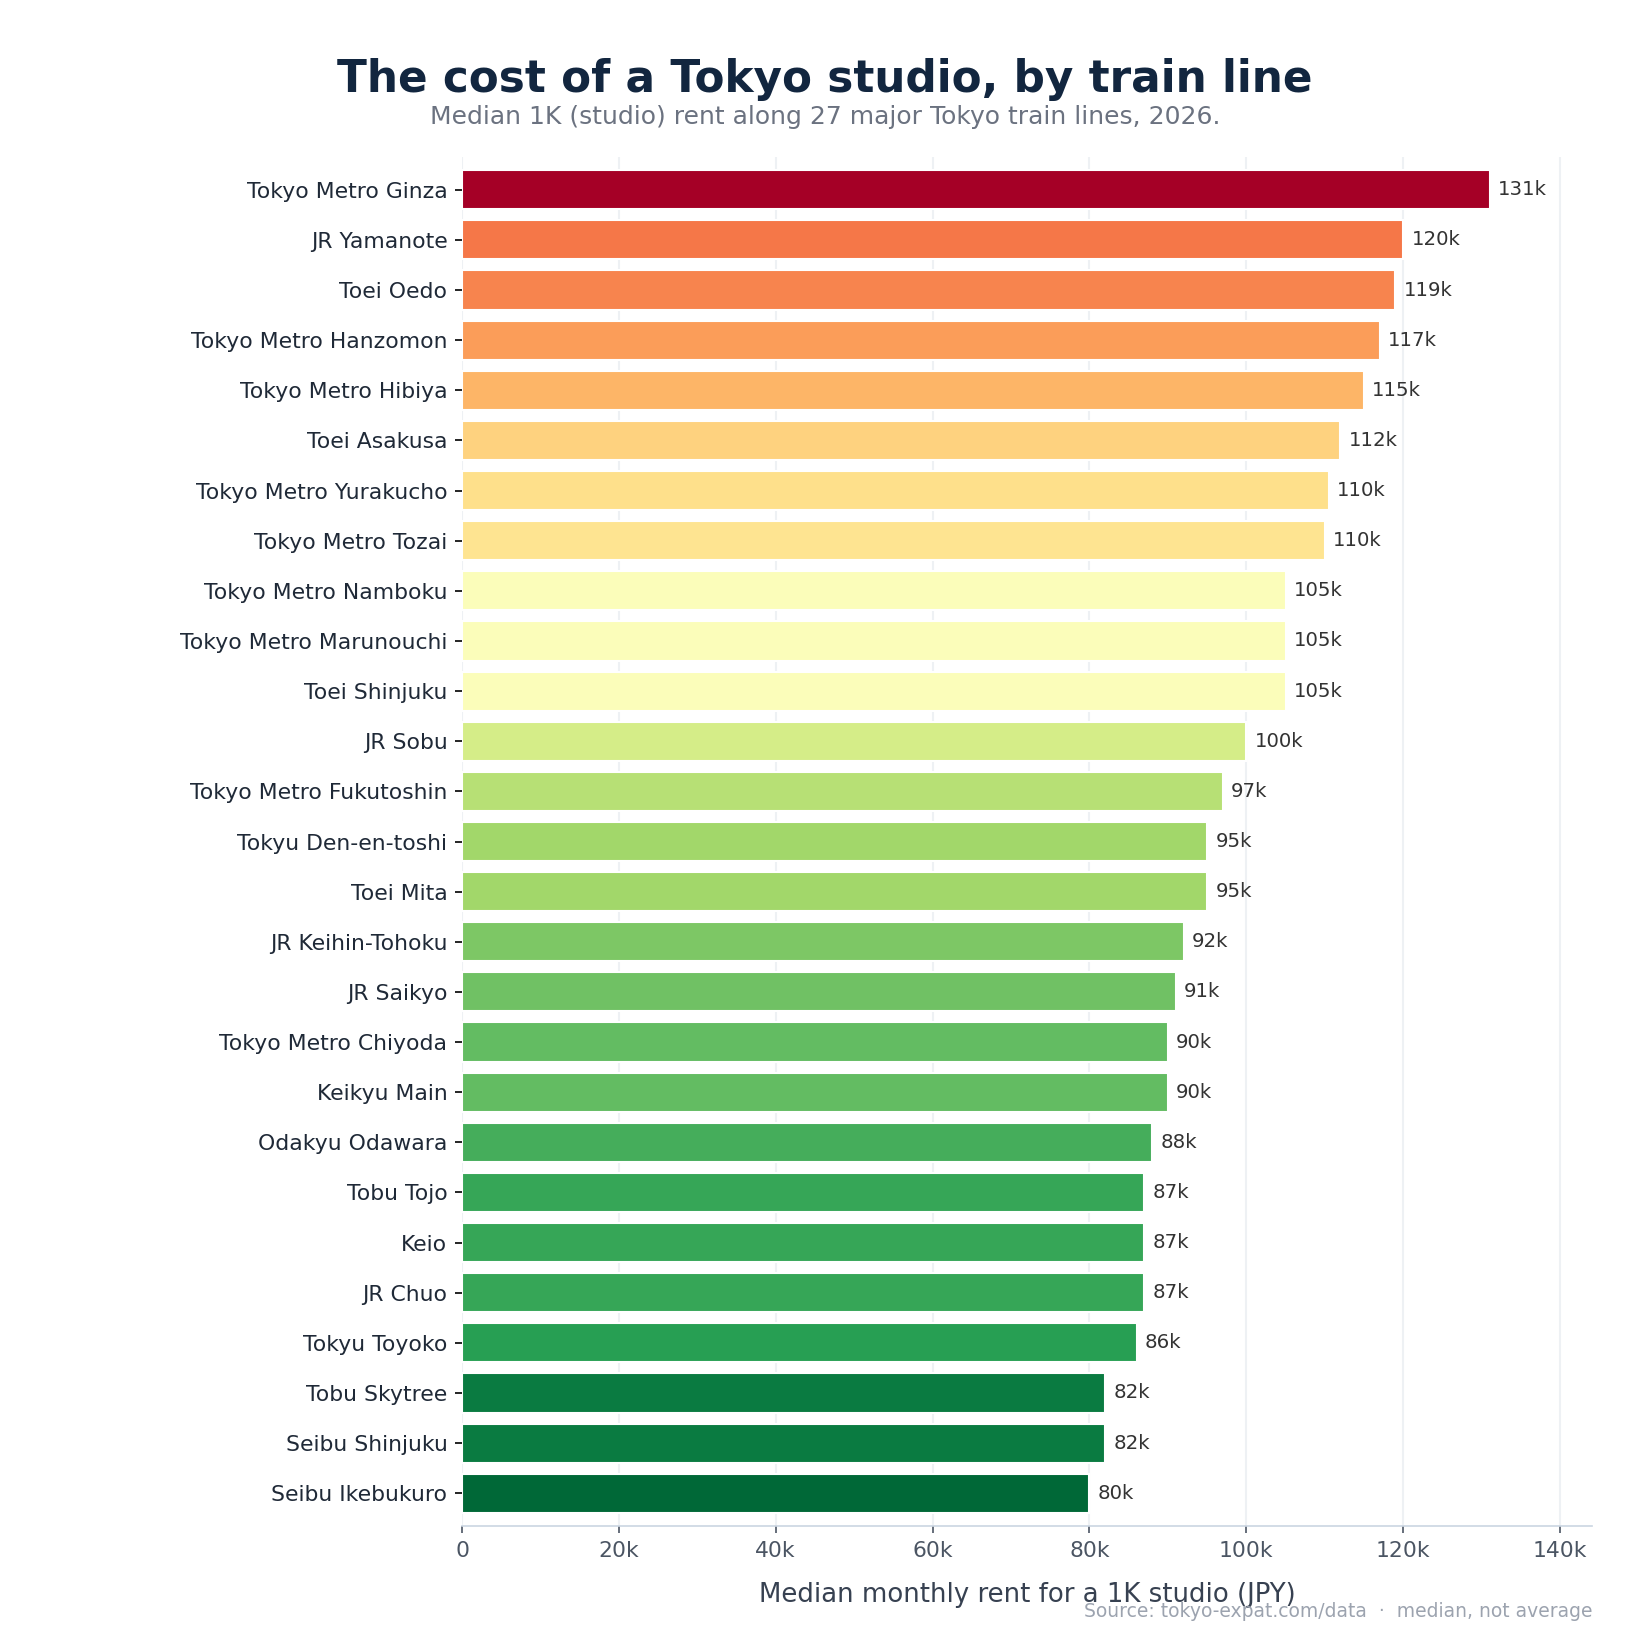
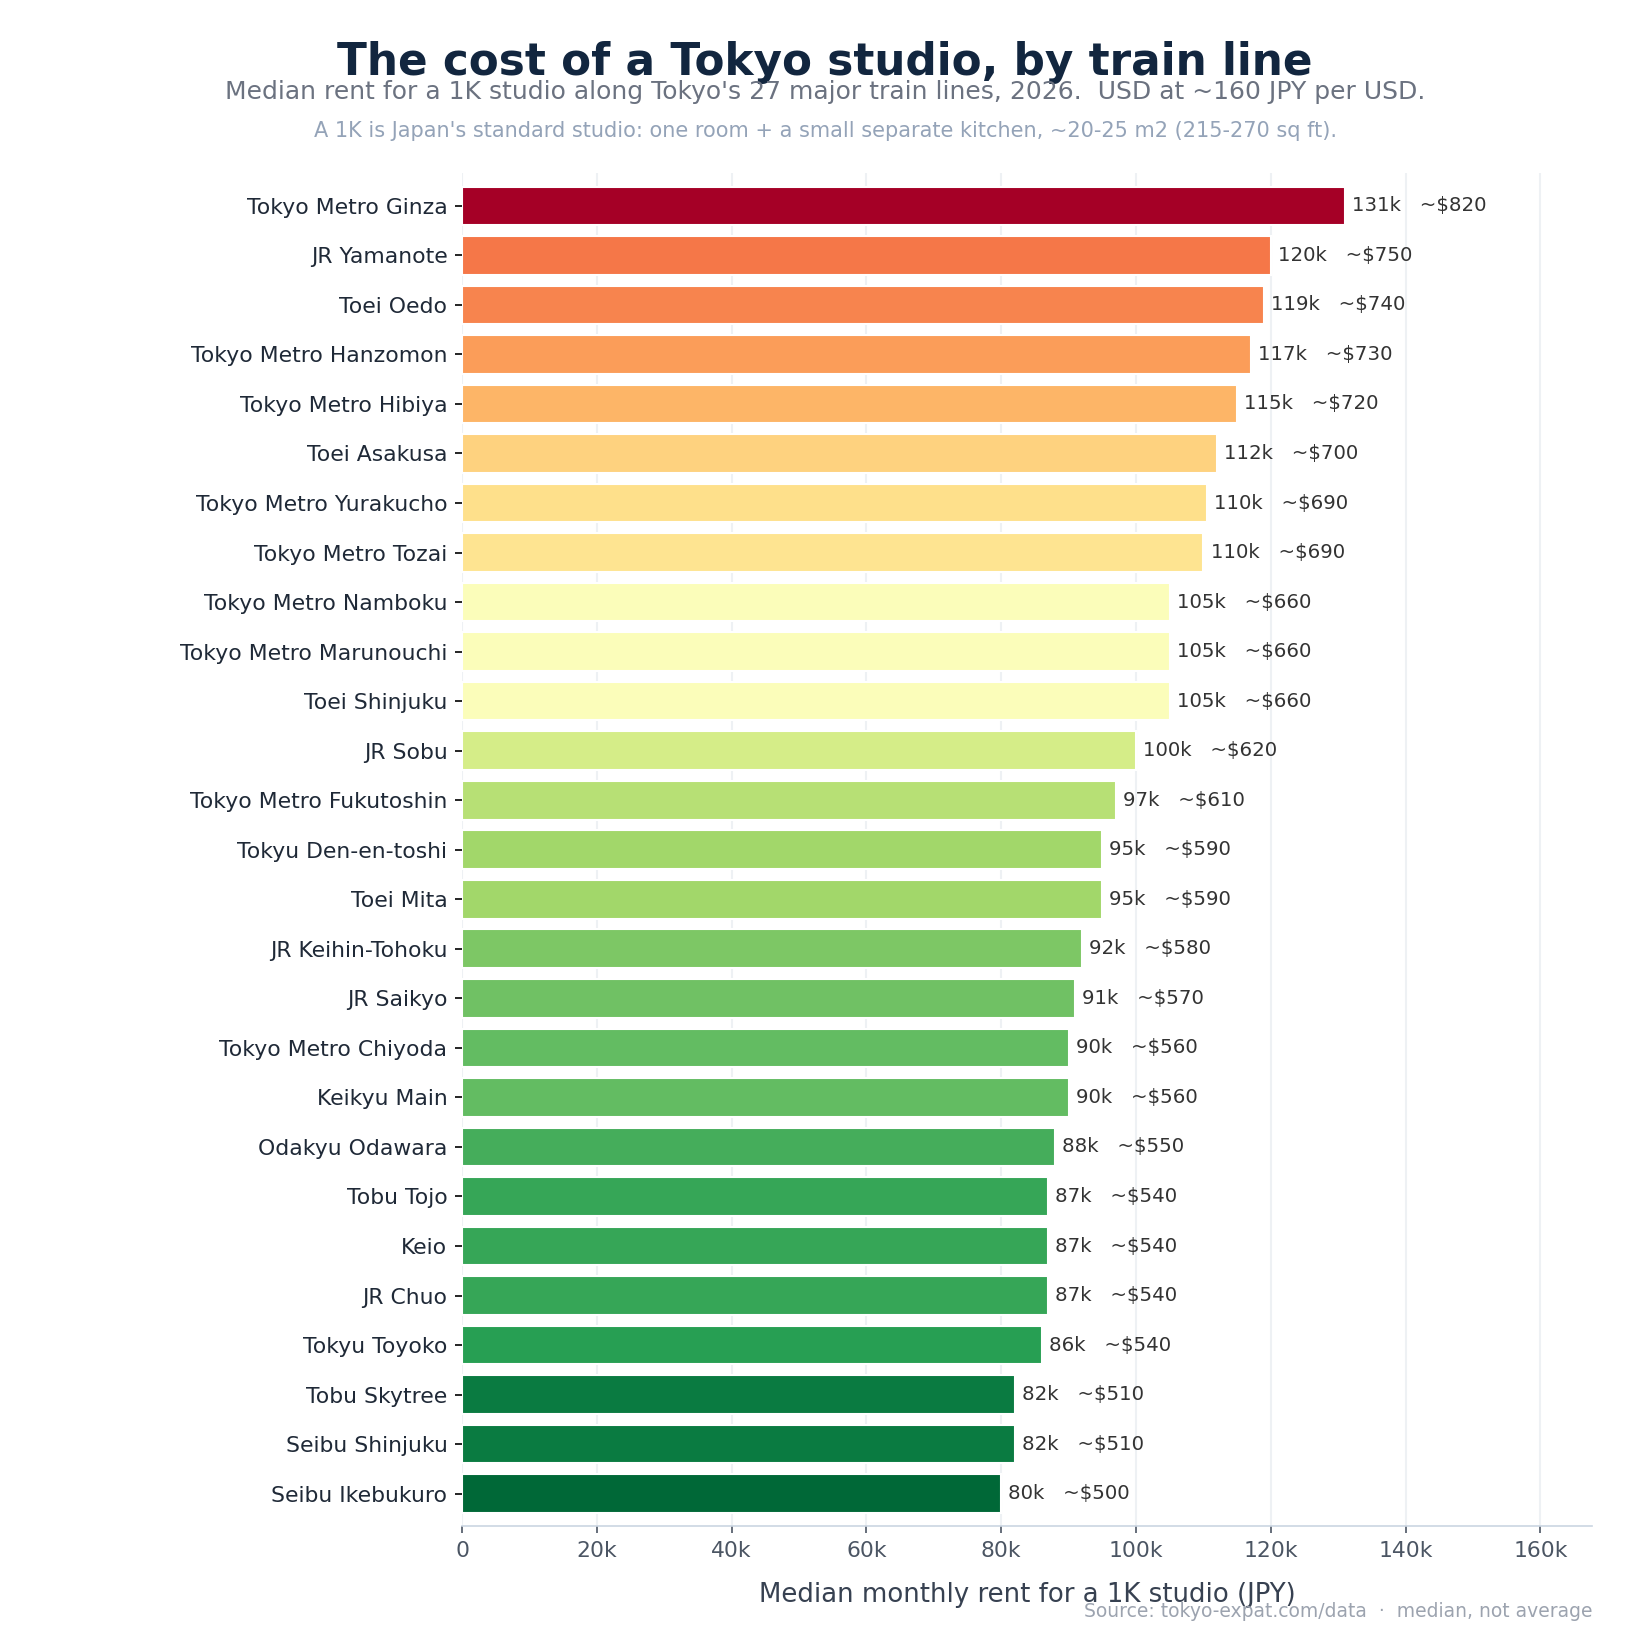
feat(reddit): munition rent-by-line en style viral (degrade RdYlGn) + ajout ~$USD sur barres + explication '1K' (desamorce filon n1). Generateur officiel.

diff --git a/scripts/generate_rent_line_chart.py b/scripts/generate_rent_line_chart.py
@@ -35,11 +35,12 @@ colors = [plt.cm.RdYlGn_r(norm(v)) for v in vals]
 fig, ax = plt.subplots(figsize=(11, 11))
 ax.barh(y, vals, color=colors, edgecolor="white", height=0.78)
 for i, v in enumerate(vals):
-    ax.text(v + max(vals) * 0.008, i, f"{v/1000:.0f}k", va="center", ha="left",
+    usd = round(v / 160 / 10) * 10
+    ax.text(v + max(vals) * 0.008, i, f"{v/1000:.0f}k   ~\\${usd:,.0f}", va="center", ha="left",
             fontsize=9.5, color="#333")
 ax.set_yticks(y)
 ax.set_yticklabels(names, fontsize=10.5, color="#1f2937")
-ax.set_xlim(0, max(vals) * 1.1)
+ax.set_xlim(0, max(vals) * 1.28)
 ax.set_xlabel("Median monthly rent for a 1K studio (JPY)", fontsize=12.5, color="#374151", labelpad=10)
 ax.xaxis.set_major_formatter(lambda x, _: f"{int(x/1000)}k" if x else "0")
 ax.tick_params(axis="x", labelsize=10.5, colors="#4b5563")
@@ -50,11 +51,13 @@ ax.xaxis.grid(True, color="#eef1f4", lw=1)
 ax.set_axisbelow(True)
 ax.margins(y=0.01)
 
-plt.subplots_adjust(top=0.905, bottom=0.075, left=0.28, right=0.965)
+plt.subplots_adjust(top=0.895, bottom=0.075, left=0.28, right=0.965)
 fig.suptitle("The cost of a Tokyo studio, by train line", fontsize=21, fontweight="bold",
-             color=NAVY, x=0.5, y=0.965)
-fig.text(0.5, 0.925, f"Median 1K (studio) rent along {len(lines)} major Tokyo train lines, 2026.",
+             color=NAVY, x=0.5, y=0.975)
+fig.text(0.5, 0.94, f"Median rent for a 1K studio along Tokyo's {len(lines)} major train lines, 2026.  USD at ~160 JPY per USD.",
          ha="center", fontsize=12, color="#6b7280")
+fig.text(0.5, 0.917, "A 1K is Japan's standard studio: one room + a small separate kitchen, ~20-25 m2 (215-270 sq ft).",
+         ha="center", fontsize=10, color="#94a3b8")
 fig.text(0.965, 0.02, "Source: tokyo-expat.com/data  ·  median, not average",
          ha="right", fontsize=9, color="#9ca3af")
 